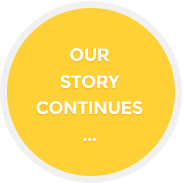
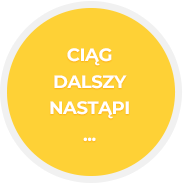
Update about section

diff --git a/index.html b/index.html
@@ -1,20 +1,24 @@
 <!DOCTYPE html>
 <html lang="en">
+
 <head>
     <meta charset="UTF-8">
     <meta name="viewport" content="width=device-width, initial-scale=1.0">
     <meta http-equiv="X-UA-Compatible" content="ie=edge">
     <link rel="stylesheet" href="https://maxcdn.bootstrapcdn.com/font-awesome/4.5.0/css/font-awesome.min.css">
     <link href="https://fonts.googleapis.com/css?family=Montserrat:400,700|Roboto+Slab" rel="stylesheet">
-    <link rel="stylesheet" href="https://maxcdn.bootstrapcdn.com/bootstrap/3.3.6/css/bootstrap.min.css" integrity="sha384-1q8mTJOASx8j1Au+a5WDVnPi2lkFfwwEAa8hDDdjZlpLegxhjVME1fgjWPGmkzs7" crossorigin="anonymous">
+    <link rel="stylesheet" href="https://maxcdn.bootstrapcdn.com/bootstrap/3.3.6/css/bootstrap.min.css" integrity="sha384-1q8mTJOASx8j1Au+a5WDVnPi2lkFfwwEAa8hDDdjZlpLegxhjVME1fgjWPGmkzs7"
+        crossorigin="anonymous">
     <link rel="stylesheet" type="text/css" href="css/style.css">
     <title>Website</title>
 </head>
+
 <body>
     <nav class="navbar navbar-fixed-top navig">
         <div class="container">
             <div class="navbar-header">
-                <button type="button" class="navbar-toggle collapsed" data-toggle="collapse" data-target="#bs-example-navbar-collapse-1" aria-expanded="false">
+                <button type="button" class="navbar-toggle collapsed" data-toggle="collapse" data-target="#bs-example-navbar-collapse-1"
+                    aria-expanded="false">
                     <span class="sr-only">Toggle navigation</span>
                     <span class="icon-bar"></span>
                     <span class="icon-bar"></span>
@@ -29,7 +33,7 @@
                     </li>
                     <li>
                         <a href="#">Usługi</a>
-                    </li>                    
+                    </li>
                     <li>
                         <a href="#">Portfolio</a>
                     </li>
@@ -44,12 +48,12 @@
         </div>
     </nav>
     <div class="jumbotron">
-            <div class="container jumb">
-                <h1 class="welcome">Witamy w naszym studio!</h1>
-                <h1 class="seey">Miło Cię widzieć</h1>
-                <button type="button" class="btn btn-warning btn-lg center-block btnjumb" href="#">Więcej</button>
-            </div>
+        <div class="container jumb">
+            <h1 class="welcome">Witamy w naszym studio!</h1>
+            <h1 class="seey">Miło Cię widzieć</h1>
+            <button type="button" class="btn btn-warning btn-lg center-block btnjumb" href="#">Więcej</button>
         </div>
+    </div>
     </div>
     <div class="container services">
         <h1 class="title_services">Usługi</h1>
@@ -59,7 +63,7 @@
                 <div class="circle">
                     <i class="fa fa-shopping-basket fa-4x"></i>
                 </div>
-                    <h2>E-Commerce</h2>
+                <h2>E-Commerce</h2>
                 <p>Lorem ipsum dolor sit amet consectetur adipisicing elit. Sunt accusamus minus odit voluptatem autem
                     veniam fugit corrupti numquam est temporibus voluptate, molestias eius ab. Aut cumque doloribus
                     recusandae architecto. Sit.</p>
@@ -68,7 +72,7 @@
                 <div class="circle">
                     <i class="fa fa-laptop fa-4x"></i>
                 </div>
-                    <h2>Responsive Web</h2>
+                <h2>Responsive Web</h2>
                 <p>Lorem ipsum dolor sit amet consectetur adipisicing elit. Sunt accusamus minus odit voluptatem autem
                     veniam fugit corrupti numquam est temporibus voluptate, molestias eius ab. Aut cumque doloribus
                     recusandae architecto. Sit.</p>
@@ -77,7 +81,7 @@
                 <div class="circle">
                     <i class="fa fa-lock fa-4x"></i>
                 </div>
-                    <h2>Web Security</h2>
+                <h2>Web Security</h2>
                 <p>Lorem ipsum dolor sit amet consectetur adipisicing elit. Sunt accusamus minus odit voluptatem autem
                     veniam fugit corrupti numquam est temporibus voluptate, molestias eius ab. Aut cumque doloribus
                     recusandae architecto. Sit.</p>
@@ -89,42 +93,42 @@
             <h1 class="title_services">Portfolio</h1>
             <h1 class="sub_title">Proin iaculis purus consequat sem cure.</h1>
             <div class="row">
-                <div class="col-md-4">
+                <div class="col-md-4 col-sm-6">
                     <img src="../../images/port1.png" alt="image" class="img-responsive center-block">
                     <div class="port1">
                         <h2>Ebony & Ivory</h2>
                         <p>Branding</p>
                     </div>
                 </div>
-                <div class="col-md-4">
+                <div class="col-md-4 col-sm-6">
                     <img src="../../images/port2.png" alt="image" class="img-responsive center-block">
                     <div class="port1">
                         <h2>Smart Stationary</h2>
                         <p>Print Design</p>
                     </div>
                 </div>
-                <div class="col-md-4">
+                <div class="col-md-4 col-sm-6">
                     <img src="../../images/port3.png" alt="image" class="img-responsive center-block">
                     <div class="port1">
                         <h2>Clever Poster</h2>
                         <p>Print Design</p>
                     </div>
                 </div>
-                <div class="col-md-4">
+                <div class="col-md-4 col-sm-6">
                     <img src="../../images/port4.png" alt="image" class="img-responsive center-block">
                     <div class="port1">
                         <h2>Vinyl Record</h2>
                         <p>Product Mock-Up</p>
                     </div>
                 </div>
-                <div class="col-md-4">
+                <div class="col-md-4 col-sm-6">
                     <img src="../../images/port5.png" alt="image" class="img-responsive center-block">
                     <div class="port1">
                         <h2>Treehouse Template</h2>
                         <p>Web Design</p>
                     </div>
                 </div>
-                <div class="col-md-4">
+                <div class="col-md-4 col-sm-6">
                     <img src="../../images/port6.png" alt="image" class="img-responsive center-block">
                     <div class="port1">
                         <h2>Burned Logo</h2>
@@ -138,19 +142,73 @@
         <div class="container">
             <h1 class="title_services">O nas</h1>
             <h1 class="sub_title">Proin iaculis purus consequat sem cure.</h1>
-            <h1 class="date">July 2010<br/>Our Humble Beginnings</h1>
-            <img src= "images/about1.png" alt="image" class="img-responsive center-block">
-            <div class="line"></div>
-            <img src= "images/about2.png" alt="image" class="img-responsive center-block">
-            <div class="line"></div>
-            <img src= "images/about3.png" alt="image" class="img-responsive center-block">
-            <div class="line"></div>
-            <img src= "images/about4.png" alt="image" class="img-responsive center-block">
-            <div class="line"></div>
-            <img src= "images/about5.png" alt="image" class="img-responsive center-block">
+            <div class="row">
+                <div class="col-sm-5">
+                    <h1 class="date">Lipiec 2010<br />Skromne początki</h1>
+                    <p class="desc">Proin iaculis purus consequat sem cure
+                        digni ssim. Donec porttitora entum suscipit
+                        aenean rhoncus posuere odio in tincidunt. Proin
+                        iaculis purus consequat sem cure digni</p>
+                </div>
+                <div class="col-sm-2">
+                    <img src="images/about1.png" alt="image" class="img-responsive center-block">
+                </div>
+                <div class="col-sm-5"></div>
+                <div class="col-sm-12">
+                    <div class="line"></div>
+                </div>
+                <div class="col-sm-5"></div>
+                <div class="col-sm-2">
+                    <img src="images/about2.png" alt="image" class="img-responsive center-block">
+                </div>
+                <div class="col-sm-5">
+                    <h1 class="date-left">Styczeń 2011<br />Rozkręcamy się</h1>
+                    <p class="desc-left">Proin iaculis purus consequat sem cure
+                        digni ssim. Donec porttitora entum suscipit
+                        aenean rhoncus posuere odio in tincidunt. Proin
+                        iaculis purus consequat sem cure digni</p>
+                </div>
+                <div class="col-sm-12">
+                    <div class="line"></div>
+                </div>
+                <div class="col-sm-5">
+                    <h1 class="date">Grudzień 2012<br />Nadeszły cięzkie dni</h1>
+                    <p class="desc">Proin iaculis purus consequat sem cure
+                        digni ssim. Donec porttitora entum suscipit
+                        aenean rhoncus posuere odio in tincidunt. Proin
+                        iaculis purus consequat sem cure digni</p>
+                </div>
+                <div class="col-sm-2">
+                    <img src="images/about3.png" alt="image" class="img-responsive center-block">
+                </div>
+                <div class="col-sm-5"></div>
+                <div class="col-sm-12">
+                    <div class="line"></div>
+                </div>
+                <div class="col-sm-5"></div>
+                <div class="col-sm-2">
+                    <img src="images/about4.png" alt="image" class="img-responsive center-block">
+                </div>
+                <div class="col-sm-5">
+                    <h1 class="date-left">Luty 2014<br />Wielkie zwycięstwo</h1>
+                    <p class="desc-left">Proin iaculis purus consequat sem cure
+                        digni ssim. Donec porttitora entum suscipit
+                        aenean rhoncus posuere odio in tincidunt. Proin
+                        iaculis purus consequat sem cure digni</p>
+                </div>
+                <div class="col-sm-12">
+                    <div class="line"></div>
+                </div>
+                <div class="col-sm-5"></div>
+                <div class="col-sm-2">
+                    <img src="images/about5.png" alt="image" class="img-responsive center-block">
+                </div>
+                <div class="col-sm-5"></div>
+            </div>
         </div>
     </div>
-<script src="https://ajax.googleapis.com/ajax/libs/jquery/1.12.2/jquery.min.js"></script>
-<script src="https://maxcdn.bootstrapcdn.com/bootstrap/3.3.6/js/bootstrap.min.js" integrity="sha384-0mSbJDEHialfmuBBQP6A4Qrprq5OVfW37PRR3j5ELqxss1yVqOtnepnHVP9aJ7xS" crossorigin="anonymous"></script>
+    <script src="https://ajax.googleapis.com/ajax/libs/jquery/1.12.2/jquery.min.js"></script>
+    <script src="https://maxcdn.bootstrapcdn.com/bootstrap/3.3.6/js/bootstrap.min.js" integrity="sha384-0mSbJDEHialfmuBBQP6A4Qrprq5OVfW37PRR3j5ELqxss1yVqOtnepnHVP9aJ7xS"
+        crossorigin="anonymous"></script>
 </body>
 </html>

diff --git a/css/style.css b/css/style.css
@@ -124,7 +124,7 @@
   margin: 0 auto;
 }
 
-.about .date {
+.about .date, .about .date-left {
   font-size: 18px;
   font-family: "Montserrat";
   color: #222222;
@@ -133,12 +133,19 @@
   text-align: right;
 }
 
-.about .desc {
+.about .desc, .about .desc-left {
   font-size: 14px;
   font-family: "Roboto Slab";
   color: #777777;
-  line-height: 1.2;
   text-align: right;
+}
+
+.about .date-left {
+  text-align: left;
+}
+
+.about .desc-left {
+  text-align: left;
 }
 
 /*# sourceMappingURL=style.css.map */

diff --git a/sass/style.scss b/sass/style.scss
@@ -129,9 +129,16 @@
         font-size: 14px;
         font-family: "Roboto Slab";
         color: rgb(119, 119, 119);
-        line-height: 1.2;
         text-align: right;
-      }
+    }
+    .date-left {
+        @extend .date;
+        text-align: left;
+    }
+    .desc-left {
+        @extend .desc;
+        text-align: left;
+    }
 }
 
 
